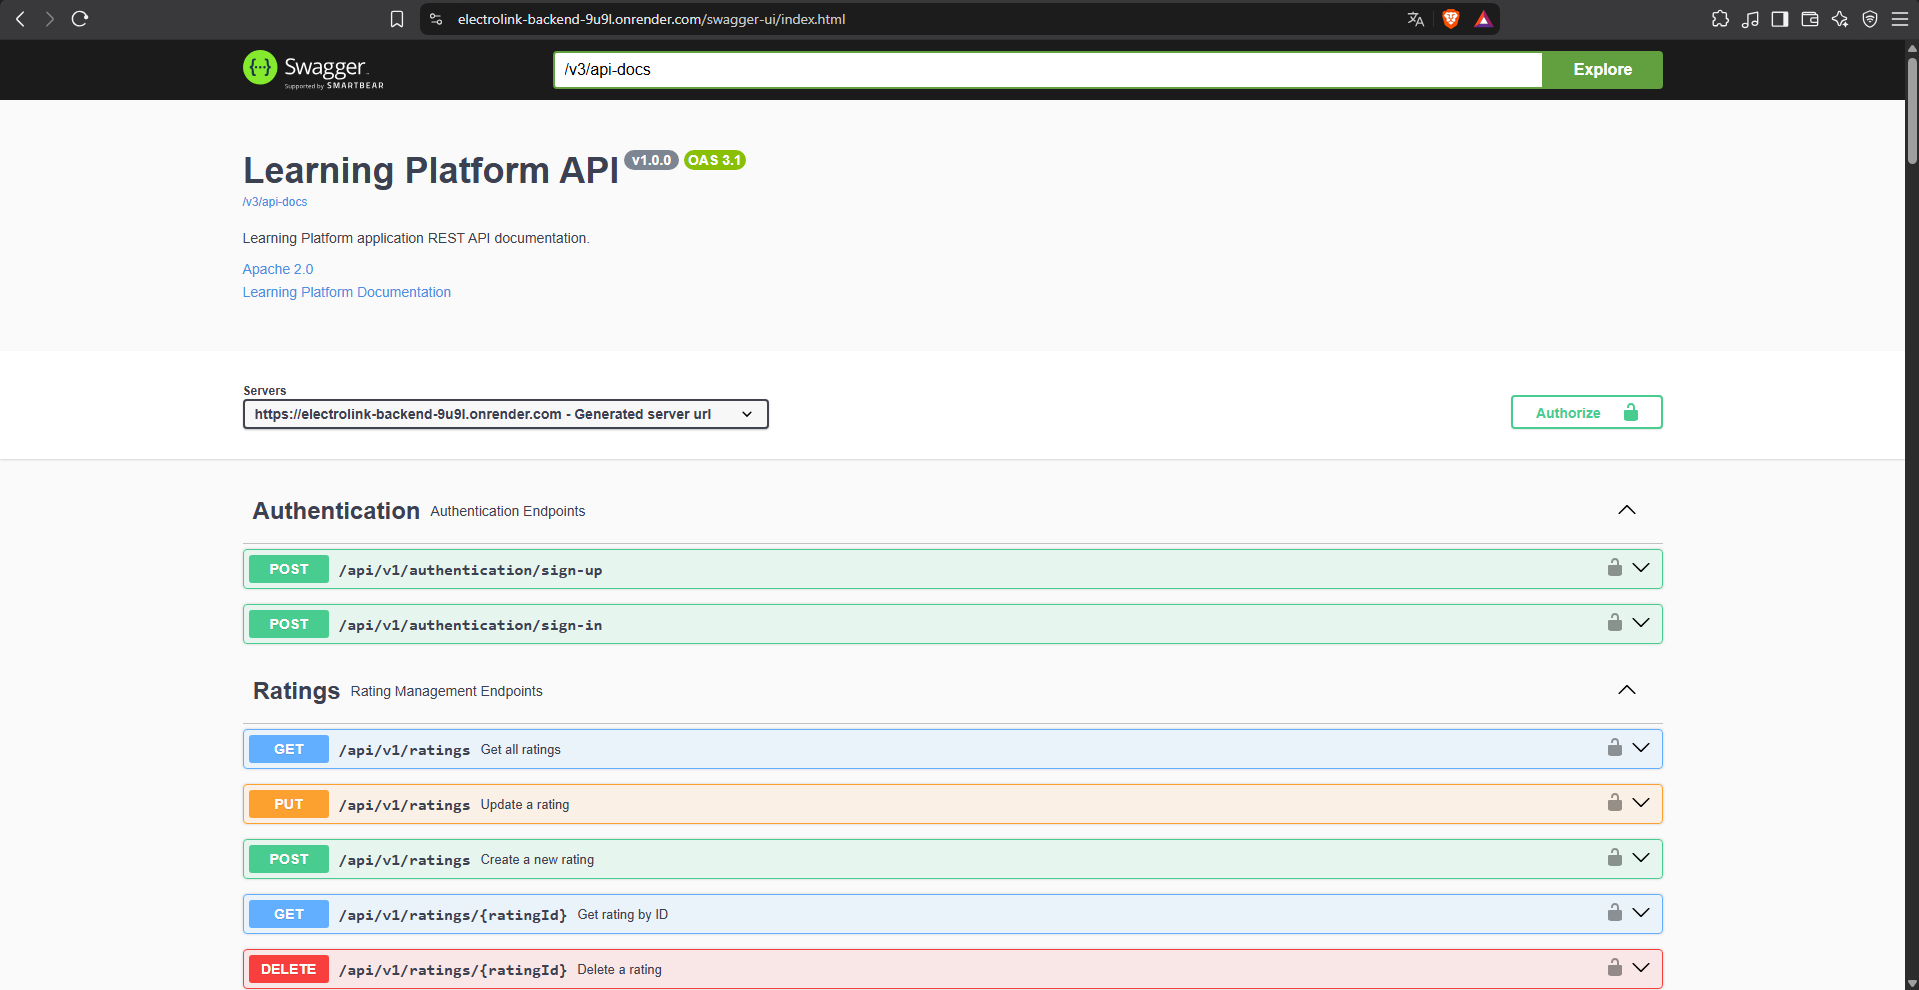
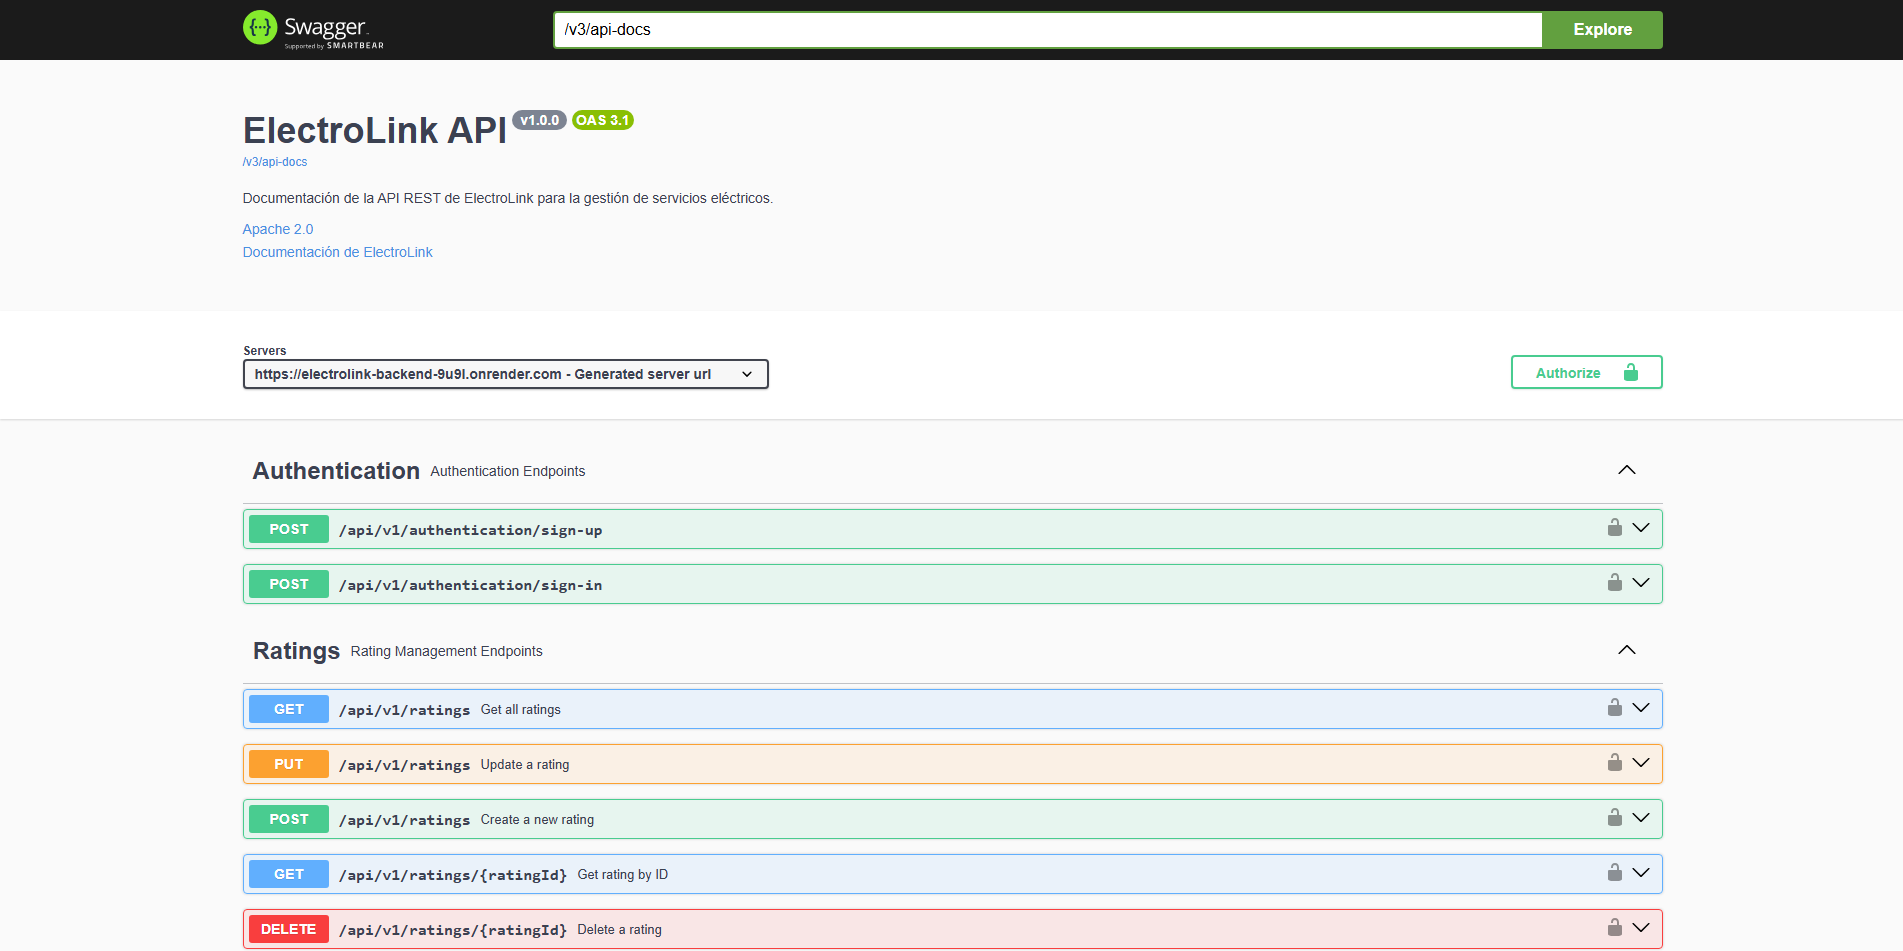
docs: document Neon deployment and update Swagger evidence

diff --git a/README.md b/README.md
@@ -7548,7 +7548,7 @@ Render despliega la API de ElectroLink desde la rama `main` del repositorio del 
 | **Backend RESTful API** | **Render** (*Web Service*, entorno Docker, plan gratuito) | Construye la imagen con el `Dockerfile` del repositorio y publica la API. | https://electrolink-backend-9u9l.onrender.com/swagger-ui/index.html |
 | **Front-end web** | **Netlify** | El despliegue web anterior está documentado en la [sección 5.2.3](#523-implemented-frontend-web-application-evidence). | https://expsoft-frontend.netlify.app |
 | **Landing Page** | **GitHub Pages** | Publica la página estática desde la rama configurada en *Settings → Pages*. | https://g2-diseno-de-experimentos.github.io/Landing-Page/ |
-| **Base de datos** | **PostgreSQL 17 en filess.io** | Base temporal conectada al backend para la demostración con datos ficticios. | — |
+| **Base de datos** | **PostgreSQL 18 en Neon** (AWS São Paulo) | Base de datos del backend desplegado en Render. La demostración usa datos ficticios. | [Neon](https://neon.com/) |
 | **Repositorio** | GitHub (organización `G2-Diseno-de-Experimentos`) | Origen del código que despliegan las plataformas. | — |
 
 **Prácticas aplicadas**
@@ -7581,7 +7581,7 @@ La captura de *Environment* muestra los nombres de las variables con sus valores
 | **Backend (Render)** | *Push* a `main` | Render clona el repositorio, construye la imagen con el `Dockerfile` (`mvn package -DskipTests`, y luego la imagen `eclipse-temurin:21-jre`), inicia el contenedor con las variables de entorno y publica la nueva versión. | URL pública y Swagger UI disponibles. |
 | **Front-end (Netlify)** | Cambios en el repositorio conectado | Netlify construye y publica la aplicación web. | La [sección 5.2.3](#523-implemented-frontend-web-application-evidence) muestra un despliegue anterior. La rama y el commit de la publicación actual quedan por verificar. |
 | **Landing Page (GitHub Pages)** | Cambios en la rama configurada en *Pages* | GitHub construye y publica el sitio estático. | La dirección de GitHub Pages responde. |
-| **Base de datos (PostgreSQL)** | Arranque del backend | Con `spring.jpa.hibernate.ddl-auto=update`, Hibernate crea o ajusta las tablas en el esquema `electrolink`, seleccionado mediante `currentSchema` en la conexión JDBC. | El backend completa el arranque con la configuración de la base de demostración. |
+| **Base de datos (Neon PostgreSQL)** | Arranque del backend | Hibernate usa `spring.jpa.hibernate.ddl-auto=update` para crear o ajustar las tablas en el esquema `public`. | Tras el primer despliegue con Neon, se verificaron 25 tablas y tres roles iniciales. |
 
 **Flujo completo hacia producción**
 
@@ -7595,9 +7595,9 @@ La captura de *Environment* muestra los nombres de las variables con sus valores
 - La construcción de la imagen en Render omite las pruebas (`-DskipTests`). Las pruebas unitarias se ejecutan en Jenkins sobre el mismo commit, pero en paralelo al despliegue y no antes. Un defecto que solo detecte Jenkins puede llegar a producción durante unos minutos, hasta que se revierta. Por eso la validación previa con Karate en `develop` es importante.
 - Un *push* a `main` activa el despliegue automático de Render en paralelo a Jenkins. Como mejora futura, se puede desactivar el despliegue automático de Render y llamar a su *Deploy Hook* desde una etapa de Jenkins posterior a *Approve Delivery*. Así la aprobación pasaría a controlar el despliegue.
 - `ddl-auto=update` es práctico en esta etapa, pero para un entorno más maduro convendría reemplazarlo por migraciones versionadas.
-- El endpoint de filess.io usado en la demostración rechaza TLS. La conexión usa `sslmode=prefer` y la base está reservada para datos ficticios.
+- El backend se conecta directamente a Neon mediante JDBC con TLS y validación del certificado y del nombre del servidor (`sslmode=verify-full`). Render suministra la URL, el usuario y la contraseña mediante variables de entorno. [Conexión segura a Neon](https://neon.com/docs/connect/connect-securely)
 
-El 11/11/2026, Render desplegó el commit `37cef46` tras una actualización de las variables de entorno. El despliegue quedó en estado **Live**.
+Las siguientes capturas registran el despliegue del 11/11/2026, que publicó el commit `37cef46` y quedó en estado **Live**.
 
 ![Render muestra el despliegue del commit 37cef46 en estado Live](assets/img/cap7/render-deploy-events.png)
 
@@ -7613,9 +7613,11 @@ El registro del servicio muestra el arranque de `ElectrolinkPlatformApplication`
 
 ![Registro de arranque de Spring Boot y Tomcat en Render](assets/img/cap7/render-deploy-logs.png)
 
-Swagger UI cargó la especificación OpenAPI de la URL pública y mostró los grupos de autenticación y calificaciones. La especificación publicada utiliza el título `Learning Platform API`.
+El 12/11/2026, el backend pasó de filess.io a una base vacía en Neon para la demostración. Render desplegó el commit [`396a129`](https://github.com/G2-Diseno-de-Experimentos/ElectroLink-Backend/commit/396a12935b13b48e6009b3933172347761c410b5) con las nuevas variables de entorno y reportó el estado [**Live**](https://dashboard.render.com/web/srv-dalpjbad0e5s7387d510/deploys/dep-dbr67tdg1s2s73fhqks0) después de comprobar la respuesta de `/v3/api-docs`.
 
-![Swagger UI del backend desplegado en Render con los endpoints cargados](assets/img/cap7/swagger-produccion.png)
+[Swagger UI en producción](https://electrolink-backend-9u9l.onrender.com/swagger-ui/index.html) muestra la especificación OpenAPI con el título **ElectroLink API**.
+
+![Swagger UI en producción con el título ElectroLink API y los grupos Authentication y Ratings](assets/img/cap7/swagger-produccion.png)
 
 ## 7.4. Continuous Monitoring
 
